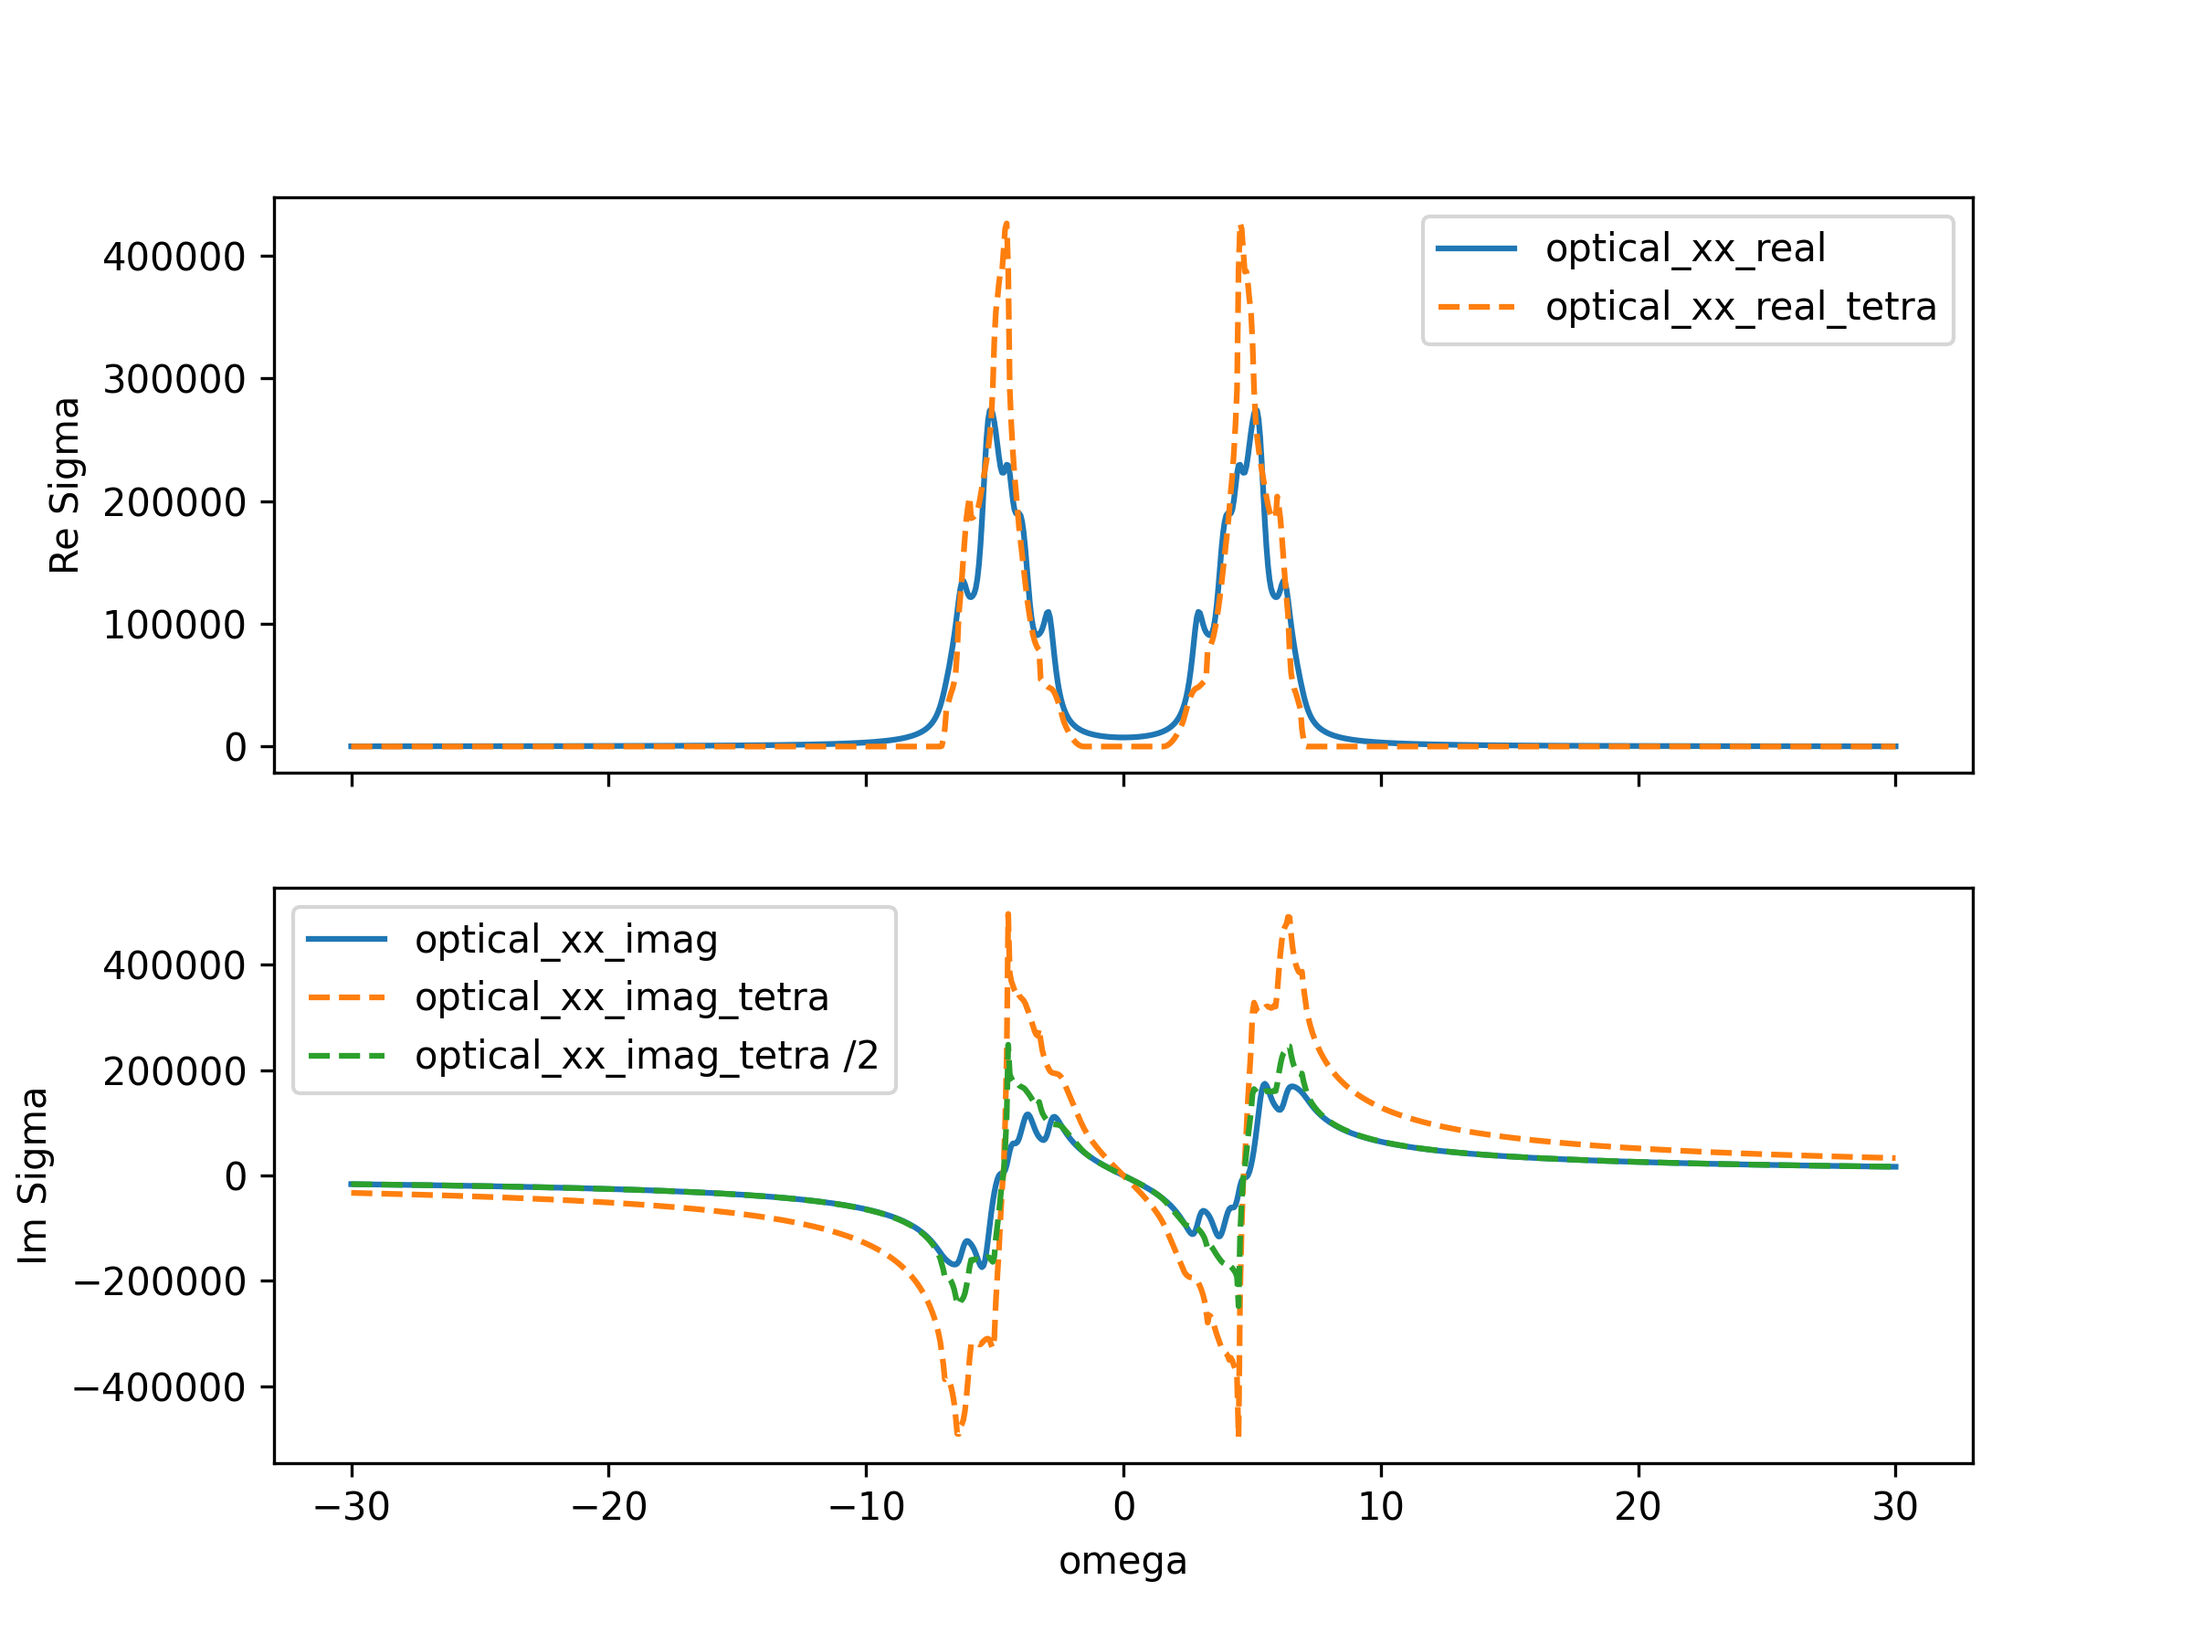
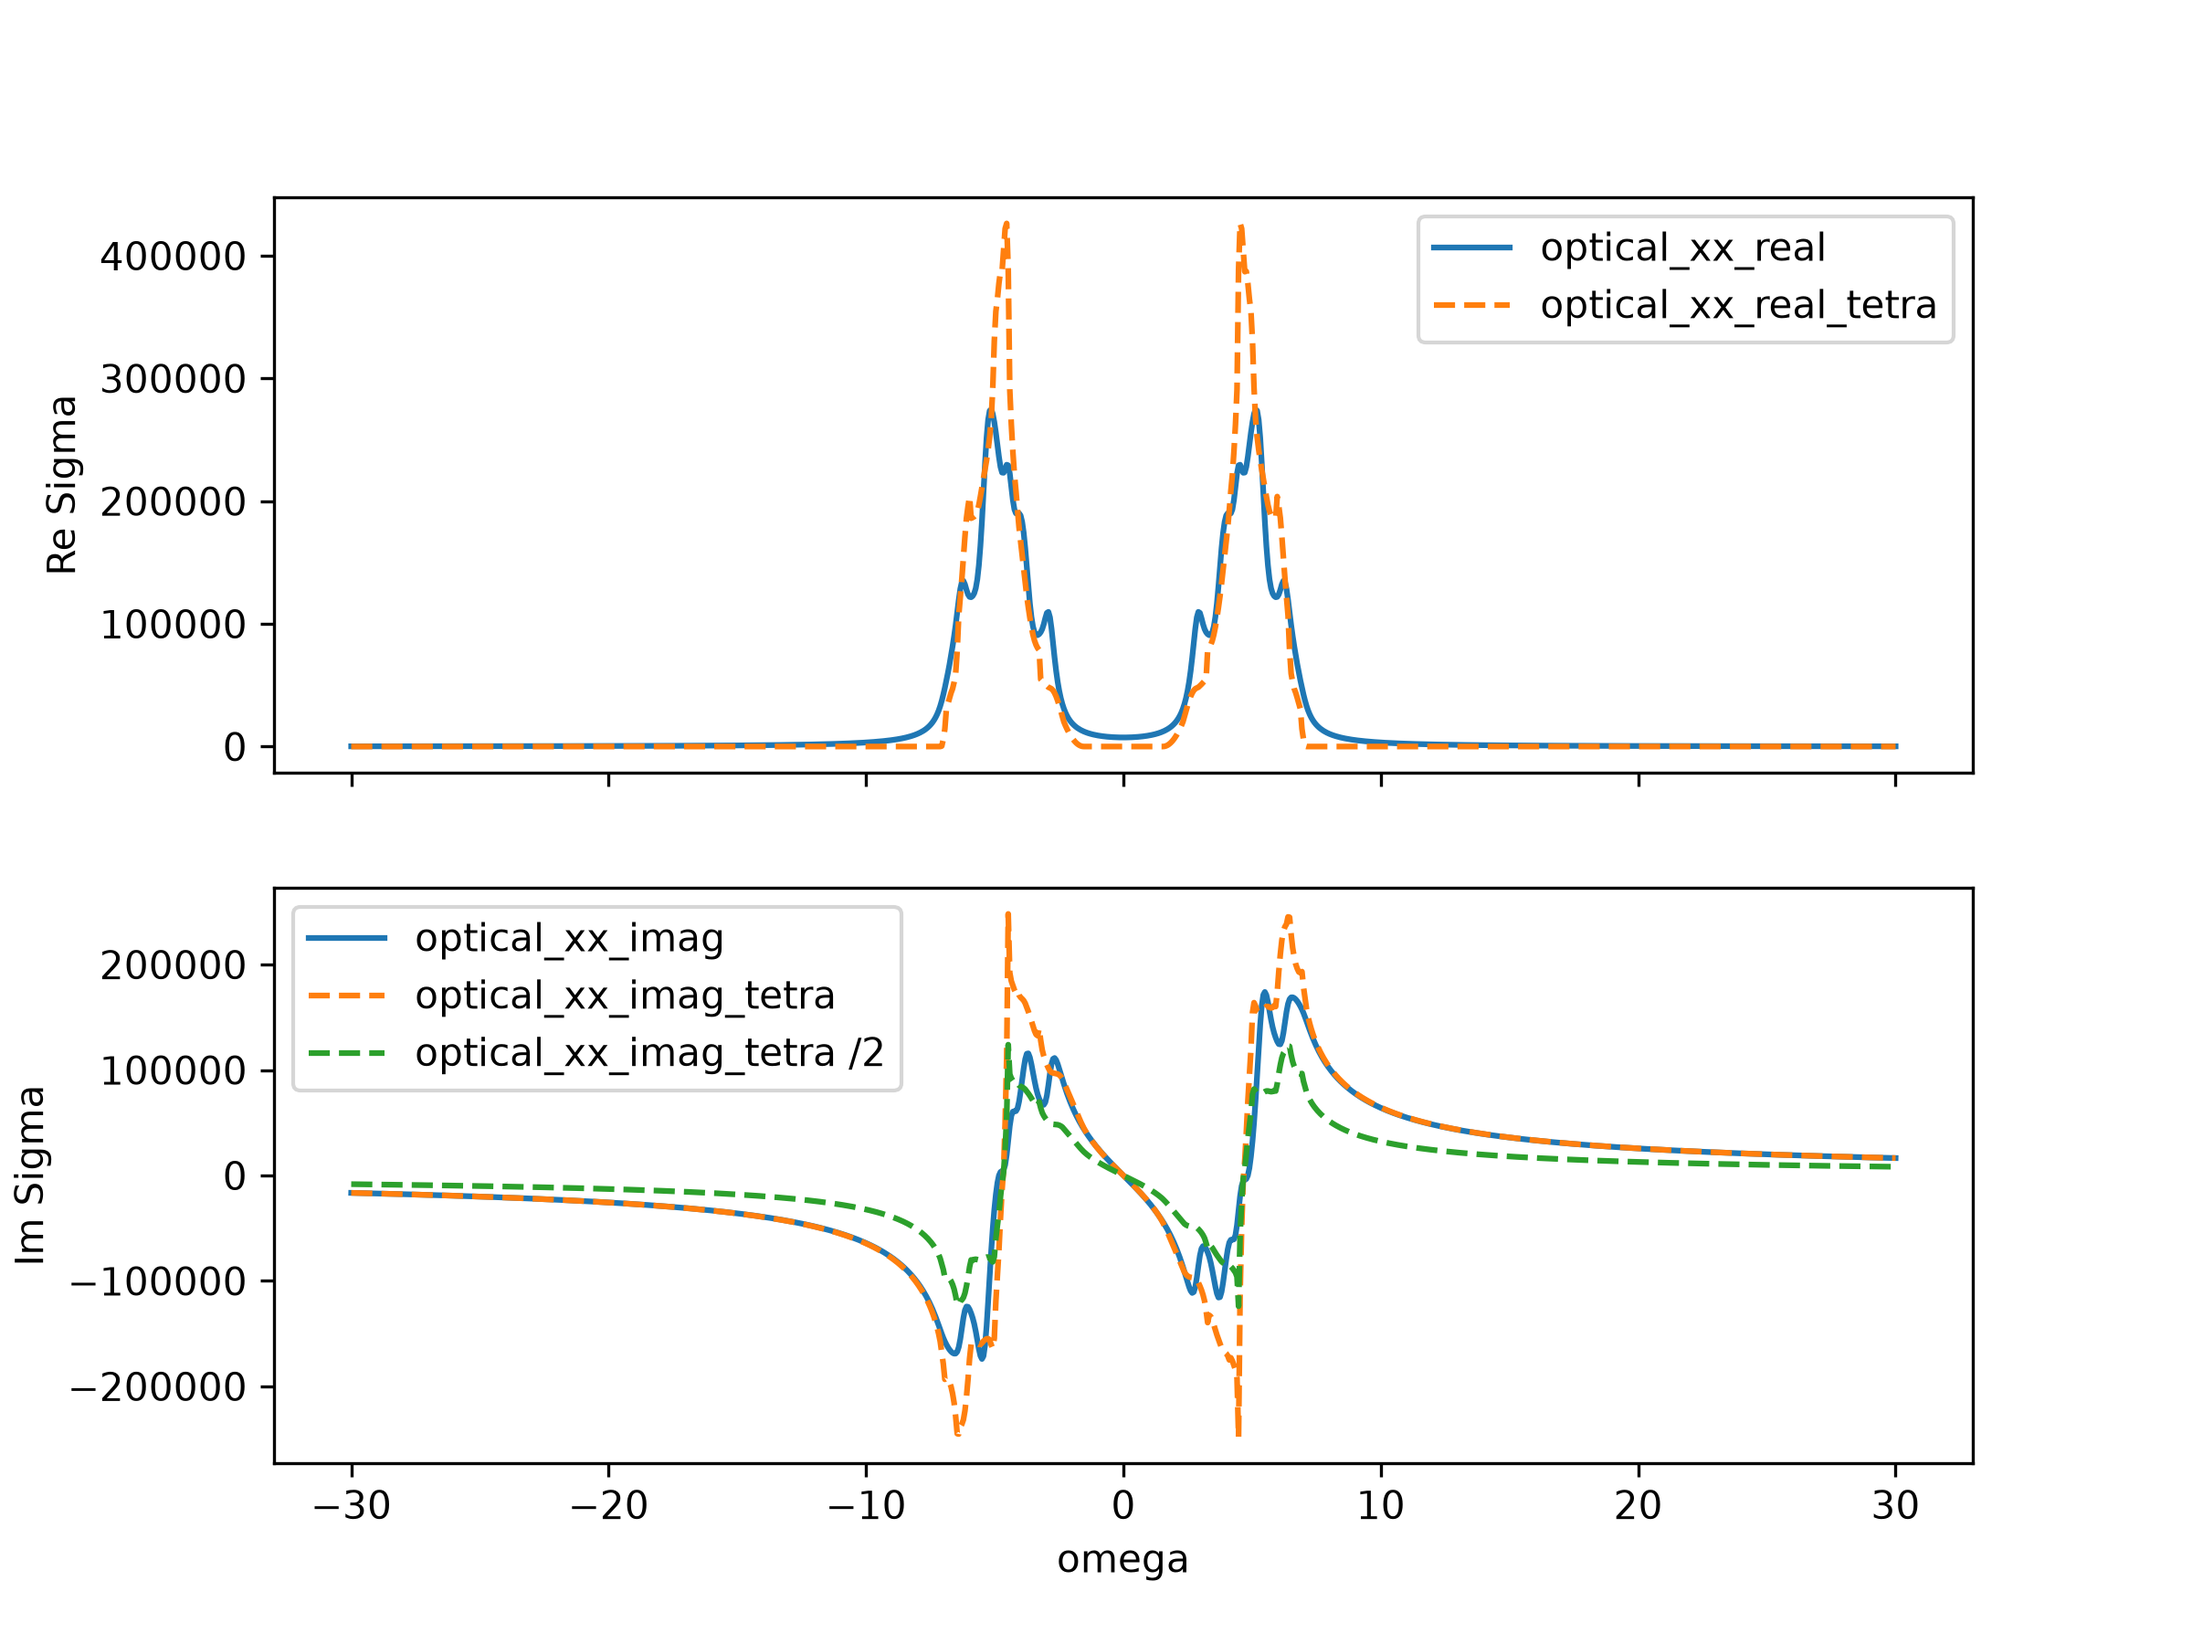
soem cleanup

diff --git a/wannierberri/grid/tetrahedron.py b/wannierberri/grid/tetrahedron.py
@@ -142,68 +142,82 @@ PRINCIPAL_FAR = 0.25
 
 
 @njit
+def _get_moments(e, mean):
+    # the moments of x = dE - mean over the tetrahedron: <x^n> = 6 / ((n+1) (n+2) (n+3)) h_n(d), with h_n the
+    # complete homogeneous symmetric polynomial of the deviations d of the corner values from the mean
+    moments = np.zeros(PRINCIPAL_ORDER + 1)
+    moments[0] = 1.
+    for k in range(4):
+        for l in range(1, PRINCIPAL_ORDER + 1):
+            moments[l] += (e[k] - mean) * moments[l - 1]
+    n = np.arange(PRINCIPAL_ORDER + 1)
+    return 6. / ((n + 1) * (n + 2) * (n + 3)) * moments
+
+
+@njit
+def _get_c_matrix(e1, e2, e3, e4):
+    e21, e31, e41, e32, e42, e43 = e2 - e1, e3 - e1, e4 - e1, e3 - e2, e4 - e2, e4 - e3
+    c = np.zeros((3, 3))  # the density on each interval, sum_n c[k, n] * u ** n, with u = dE - e[k]
+    c[0, 2] = 3 / (e21 * e31 * e41)
+    c[1, 0] = 3 * e21 / (e31 * e41)
+    c[1, 1] = 6 / (e31 * e41)
+    c[1, 2] = -3 * (e31 + e42) / (e32 * e42 * e31 * e41)
+    a = 3 / (e41 * e42 * e43)
+    c[2, 0] = a * e43 ** 2
+    c[2, 1] = -2 * a * e43
+    c[2, 2] = a
+    return c
+
+
+@njit
+def _get_polynomial(moments, y):
+    value = 0.
+    for n in range(PRINCIPAL_ORDER, -1, -1):
+        value = value * y + moments[n]
+    return value
+
+
+@njit
 def _add_principal(res, omega, e0, e1, e2, e3, weight=1.):
     """add weight times the average of P 1/(dE - omega) over a tetrahedron to res (see `weights_tetra_reactive`)"""
     e = np.array(sorted([float(e0), float(e1), float(e2), float(e3)]))
     shift = e[0]
     e = e - shift
-    mean = (e[0] + e[1] + e[2] + e[3]) / 4
+    mean = np.sum(e) / 4
     spread = e[3] - e[0]
-    # the moments of x = dE - mean over the tetrahedron: <x^n> = 6 / ((n+1) (n+2) (n+3)) h_n(d), with h_n the
-    # complete homogeneous symmetric polynomial of the deviations d of the corner values from the mean
-    h = np.zeros(PRINCIPAL_ORDER + 1)
-    h[0] = 1.
-    for k in range(4):
-        for n in range(1, PRINCIPAL_ORDER + 1):
-            h[n] += (e[k] - mean) * h[n - 1]
-    moments = np.empty(PRINCIPAL_ORDER + 1)
-    for n in range(PRINCIPAL_ORDER + 1):
-        moments[n] = 6. / ((n + 1) * (n + 2) * (n + 3)) * h[n]
+
+    moments = _get_moments(e, mean)
     gap = 1e-7 * spread
     for i in range(3):
-        if e[i + 1] - e[i] < gap:
-            e[i + 1] = e[i] + gap
+        e[i + 1] = max(e[i + 1], e[i] + gap)
     e1, e2, e3, e4 = e
-    e21, e31, e41, e32, e42, e43 = e2 - e1, e3 - e1, e4 - e1, e3 - e2, e4 - e2, e4 - e3
-    c = np.zeros((3, 3))  # the density on each interval, sum_n c[k, n] * u ** n, with u = dE - e[k]
+
     if spread > 0:
-        c[0, 2] = 3 / (e21 * e31 * e41)
-        c[1, 0] = 3 * e21 / (e31 * e41)
-        c[1, 1] = 6 / (e31 * e41)
-        c[1, 2] = -3 * (e31 + e42) / (e32 * e42 * e31 * e41)
-        a = 3 / (e41 * e42 * e43)
-        c[2, 0] = a * e43 ** 2
-        c[2, 1] = -2 * a * e43
-        c[2, 2] = a
+        c = _get_c_matrix(e1, e2, e3, e4)
+
     for i in range(omega.shape[0]):
         D = mean - (omega[i] - shift)
         if spread <= PRINCIPAL_FAR * abs(D):
             if D != 0:  # with all values equal to omega, the principal part is zero
                 # <1/(D + x)> = sum_n (-1)^n <x^n> / D^(n+1)
-                y = -1 / D
-                value = 0.
-                for n in range(PRINCIPAL_ORDER, -1, -1):
-                    value = value * y + moments[n]
-                res[i] += weight * value / D
-            continue
-        w0 = omega[i] - shift
-        # the logarithms of the distances to the corners; at omega equal to a corner value, the two terms with it, of
-        # the neighbouring intervals, cancel (the density is continuous there), so that it is left out
-        logs = np.zeros(4)
-        for k in range(4):
-            if abs(w0 - e[k]) > 1e-12:
-                logs[k] = np.log(abs(w0 - e[k]))
-        value = 0.
-        for k in range(3):
-            w, h_k = w0 - e[k], e[k + 1] - e[k]
-            pw = c[k, 0] + w * (c[k, 1] + w * c[k, 2])
-            if abs(h_k) < 0.5 * abs(w):  # omega far from the interval: log|1 - h/w| without cancellation
-                log = np.log1p(-h_k / w)
-            else:  # near the interval: the logarithms of the distances to the corners, which cancel exactly between
-                # neighbouring intervals at a corner value shared by them
-                log = logs[k + 1] - logs[k]
-            value += pw * log + c[k, 1] * h_k + c[k, 2] * (h_k ** 2 / 2 + w * h_k)
-        res[i] += weight * value
+                res[i] += weight * _get_polynomial(moments, -1 / D) / D
+        else:
+            w0 = omega[i] - shift
+            # the logarithms of the distances to the corners; at omega equal to a corner value, the two terms with it, of
+            # the neighbouring intervals, cancel (the density is continuous there), so that it is left out
+            logs = np.log(np.abs(w0 - e) + 1e-300)
+            wk = w0 - e[:3]
+            hk = e[1:] - e[:3]
+            pwk = c[:, 0] + wk * (c[:, 1] + wk * c[:, 2])
+            value = np.sum(hk * (c[:, 1] + c[:, 2] * (hk / 2 + wk)))
+            for w, h, pw, log1, log2 in zip(wk, hk, pwk, logs[1:], logs[:-1]):
+                if abs(h) < 0.5 * abs(w):  # omega far from the interval: log|1 - h/w| without cancellation
+                    value += pw * np.log1p(-h / w)
+                else:
+                    # near the interval: the logarithms of the distances to the corners, which cancel exactly between
+                    # neighbouring intervals at a corner value shared by them
+                    value += pw * (log1 - log2)
+            res[i] += weight * value
 
 
 @njit
@@ -235,6 +249,7 @@ def reactive_values_tetra(omega, dE):
     return res
 
 
+@njit
 def get_borders(A, degen_thresh, degen_Kramers=False):
     borders = [0] + list(np.where((A[1:] - A[:-1]) > degen_thresh)[0] + 1) + [len(A)]
     if degen_Kramers:
@@ -242,7 +257,7 @@ def get_borders(A, degen_thresh, degen_Kramers=False):
     return [[ib1, ib2] for ib1, ib2 in zip(borders, borders[1:])]
 
 
-# @njit
+@njit
 def get_bands_in_range(emin, emax, Eband, degen_thresh=-1, degen_Kramers=False, Ebandmin=None, Ebandmax=None, select_bands=None):
     if Ebandmin is None:
         Ebandmin = Eband
@@ -258,6 +273,7 @@ def get_bands_in_range(emin, emax, Eband, degen_thresh=-1, degen_Kramers=False, 
     return bands
 
 
+@njit
 def get_bands_below_range(emin, Eband, Ebandmax=None):
     if Ebandmax is None:
         Ebandmax = Eband
@@ -268,6 +284,7 @@ def get_bands_below_range(emin, Eband, Ebandmax=None):
         return 0
 
 
+@njit
 def get_bands_above_range(emax, Eband, Ebandmin=None):
     if Ebandmin is None:
         Ebandmin = Eband

diff --git a/examples/Haldane_optical_tetra/optical_tetra.py b/examples/Haldane_optical_tetra/optical_tetra.py
@@ -51,7 +51,6 @@ axes[0].plot(omega, data_smr[:, *component].real, label=f"{key}_{component_str}_
 axes[0].plot(omega, data_tetra[:, *component].real, label=f"{key}_{component_str}_real_tetra", linestyle="--")
 axes[1].plot(omega, data_smr[:, *component].imag, label=f"{key}_{component_str}_imag")
 axes[1].plot(omega, data_tetra[:, *component].imag, label=f"{key}_{component_str}_imag_tetra", linestyle="--")
-axes[1].plot(omega, data_tetra[:, *component].imag / 2, label=f"{key}_{component_str}_imag_tetra /2", linestyle="--")
 axes[0].set_ylabel(f"Re Sigma")
 axes[1].set_ylabel(f"Im Sigma")
 axes[1].set_xlabel("omega")
